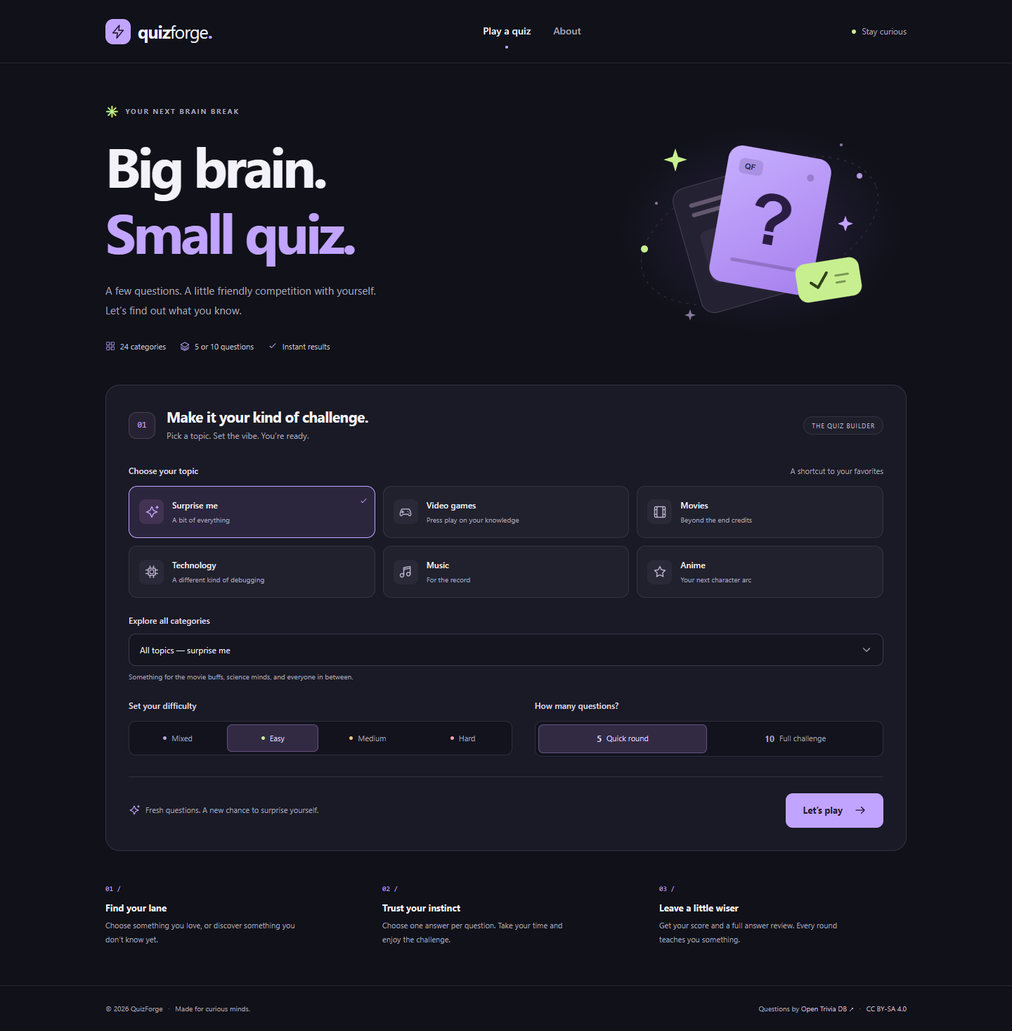
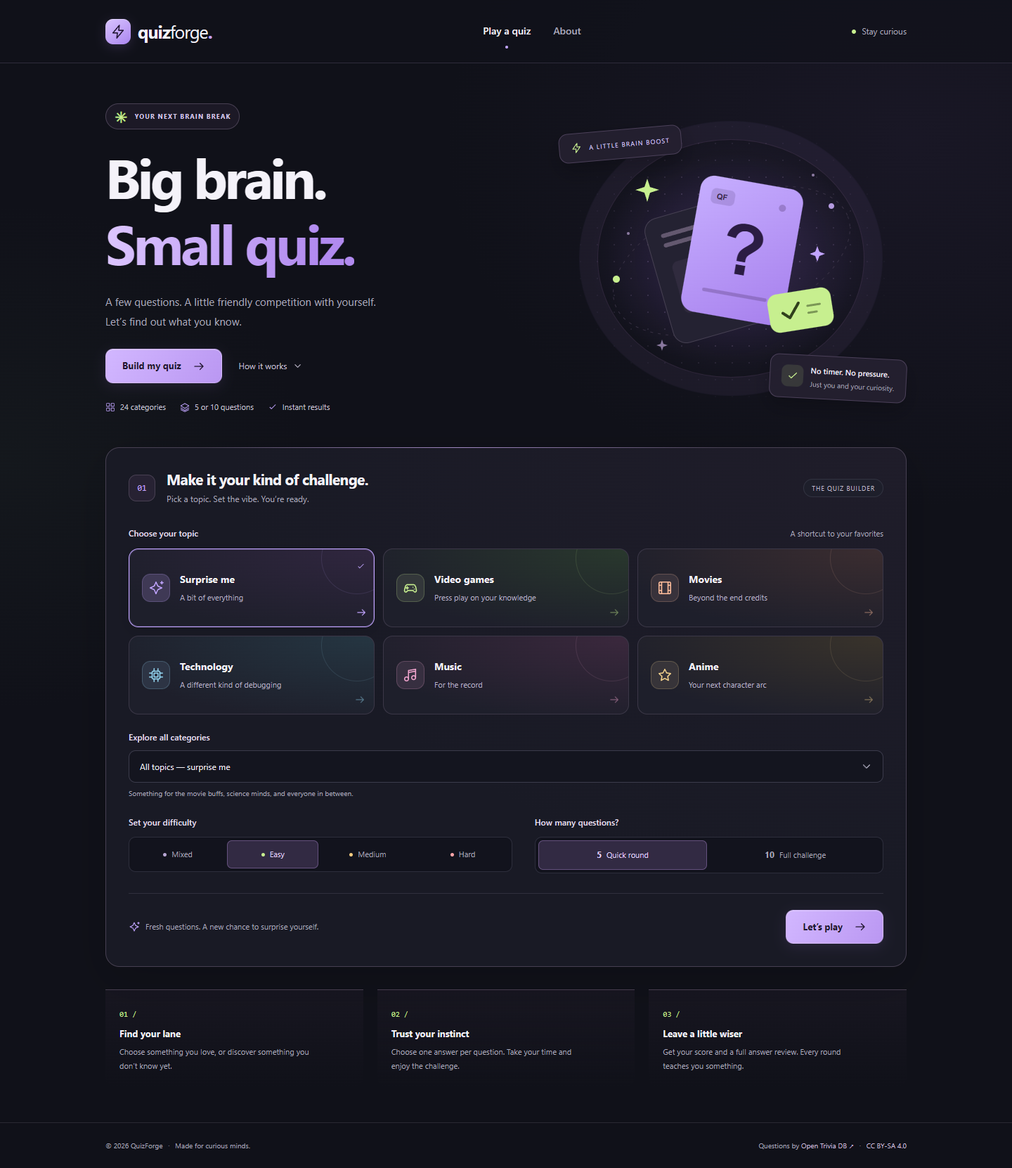
Improve quiz styling and result presentation
Add color-coded topic cards, an animated hero with section links, clearer answer selection, and rank-themed results. Refresh live OpenTDB screenshots and respect reduced-motion preferences.

diff --git a/public/css/styles.css b/public/css/styles.css
@@ -9,12 +9,13 @@
   --muted: #aaa8bb;
   --accent: #c1a4ff;
   --lime: #c7ef8f;
+  --sky: #94d8f4;
   --danger: #ffa5a9;
   --radius: 20px;
 }
 * { box-sizing: border-box; }
 html { scroll-behavior: smooth; }
-body { margin: 0; min-height: 100vh; display: flex; flex-direction: column; background: var(--bg); color: var(--text); font-family: 'Segoe UI', system-ui, sans-serif; font-size: 15px; line-height: 1.6; }
+body { margin: 0; min-height: 100vh; display: flex; flex-direction: column; background: radial-gradient(ellipse 660px 520px at 90% 200px, #27203866, transparent), radial-gradient(ellipse 430px 360px at 0 650px, #25332b33, transparent), var(--bg); color: var(--text); font-family: 'Segoe UI', system-ui, sans-serif; font-size: 15px; line-height: 1.6; }
 main { flex: 1; }
 button, input, select { font: inherit; }
 button, a, input, select { -webkit-tap-highlight-color: transparent; }
@@ -34,18 +35,18 @@ h3 { font-size: 1.05rem; }
 .accent-text { color: var(--accent); }
 .correct-color { color: var(--lime); }
 .wrong-color { color: var(--danger); }
-.panel { background: var(--panel); border: 1px solid var(--line); border-radius: var(--radius); }
+.panel { background: linear-gradient(145deg, #1e1f2c, var(--panel) 65%); border: 1px solid var(--line); border-radius: var(--radius); box-shadow: 0 12px 35px #00000014; }
 .sr-only { position: absolute; width: 1px; height: 1px; margin: -1px; padding: 0; overflow: hidden; clip: rect(0, 0, 0, 0); border: 0; white-space: nowrap; }
 .skip-link { position: fixed; top: -80px; left: 16px; z-index: 50; padding: 12px 20px; background: var(--lime); color: var(--bg); border-radius: 8px; }
 .skip-link:focus { top: 16px; }
 
 /* Navigation */
-.site-header { border-bottom: 1px solid #272832; }
+.site-header { border-bottom: 1px solid #2e2b3b; background: #101119b3; }
 .header-inner { min-height: 89px; display: flex; align-items: center; justify-content: space-between; gap: 28px; }
 .brand { display: inline-flex; align-items: center; gap: 10px; font-size: 25px; font-weight: 750; letter-spacing: -1px; }
 .brand-light { font-weight: 450; }
 .brand-dot { color: var(--accent); }
-.brand-mark { display: grid; place-items: center; background: var(--accent); color: #241835; width: 36px; height: 36px; border-radius: 11px; }
+.brand-mark { display: grid; place-items: center; background: linear-gradient(145deg, #d9c4ff, #ab86ef); color: #241835; width: 36px; height: 36px; border-radius: 11px; box-shadow: 0 4px 16px #b18be52b, inset 0 1px #ffffff66; }
 .brand-mark .icon { width: 22px; height: 22px; }
 .site-header nav { display: flex; align-items: center; gap: 32px; }
 .nav-link { color: var(--muted); padding: 32px 0; font-weight: 500; font-size: 14px; position: relative; }
@@ -55,17 +56,35 @@ h3 { font-size: 1.05rem; }
 .status-dot { width: 6px; height: 6px; border-radius: 50%; background: var(--lime); }
 
 /* Builder and home page */
-.hero { display: grid; grid-template-columns: 1.35fr 1fr; align-items: center; gap: 20px; padding: 57px 0 46px; }
+.hero { display: grid; grid-template-columns: 1.2fr 1fr; align-items: center; gap: 40px; padding: 54px 0 46px; }
 .eyebrow { display: flex; align-items: center; gap: 8px; font-size: 10px; font-weight: 700; letter-spacing: .18em; color: var(--muted); margin-bottom: 20px; }
 .eyebrow .icon { width: 16px; height: 16px; }
 .tiny-spark { color: var(--lime); font-size: 21px; line-height: 1; }
 .hero h1 { margin-bottom: 24px; }
+.hero .eyebrow { display: inline-flex; gap: 9px; padding: 7px 12px; border: 1px solid #484053; border-radius: 100px; background: #28213380; color: #d6c9e9; font-size: 9px; letter-spacing: .13em; }
+.hero h1 .accent-text { background: linear-gradient(100deg, #ddc7ff, #b18aef 85%); background-clip: text; -webkit-background-clip: text; color: transparent; }
 .hero-description { color: var(--muted); font-size: 15px; line-height: 1.85; }
-.hero-facts { display: flex; gap: 20px; margin-top: 28px; flex-wrap: wrap; }
+.hero-actions { display: flex; align-items: center; flex-wrap: wrap; gap: 24px; margin-top: 25px; }
+.hero-secondary { display: inline-flex; align-items: center; gap: 8px; padding-block: 10px; color: #c7c1d4; font-size: 12px; }
+.hero-secondary:hover { color: var(--accent); }
+.hero-secondary .icon { width: 15px; height: 15px; }
+.hero-facts { display: flex; gap: 20px; margin-top: 25px; flex-wrap: wrap; }
 .hero-facts span { display: flex; align-items: center; gap: 7px; color: #c8c5d5; font-size: 11px; }
 .hero-facts .icon { color: var(--accent); width: 14px; height: 14px; }
-.hero-art { width: 100%; max-width: 420px; height: auto; justify-self: end; }
-.builder { padding: 32px; }
+.hero-visual { position: relative; isolation: isolate; display: grid; place-items: center; min-width: 0; aspect-ratio: 1.12; }
+.hero-visual::before { content: ''; position: absolute; inset: 12%; z-index: -1; border: 1px solid #6e547c47; border-radius: 50%; background: radial-gradient(circle, #a676ed1c, transparent 70%); box-shadow: 0 0 0 25px #bd98ef04, 0 0 0 26px #8662a312; }
+.hero-visual::after { content: ''; position: absolute; inset: 0; z-index: -2; background-image: radial-gradient(#b59ccc66 1px, transparent 1px); background-size: 24px 24px; mask-image: radial-gradient(ellipse, #000, transparent 68%); }
+.hero-art { width: 100%; max-width: 420px; height: auto; animation: float-art 7s ease-in-out infinite; }
+.visual-note { position: absolute; z-index: 1; display: flex; align-items: center; gap: 10px; padding: 12px 16px; border: 1px solid #4b4059; border-radius: 13px; background: #24202ff2; box-shadow: 0 12px 28px #00000033; }
+.visual-note-top { top: 9%; left: 1%; transform: rotate(-5deg); font-size: 9px; letter-spacing: .13em; color: #dfcfff; }
+.visual-note-top > .icon { width: 16px; height: 16px; color: var(--lime); }
+.visual-note-bottom { bottom: 5%; right: 0; transform: rotate(3deg); }
+.visual-note-icon { display: grid; place-items: center; width: 31px; height: 31px; border-radius: 9px; background: #c7ef8f1f; color: var(--lime); }
+.visual-note-icon .icon { width: 18px; height: 18px; }
+.visual-note strong { display: block; color: #ede8f5; font-size: 11px; font-weight: 600; }
+.visual-note strong + span { display: block; margin-top: 2px; color: var(--muted); font-size: 10px; }
+.builder { position: relative; padding: 32px; border-color: #474052; background: radial-gradient(ellipse at top right, #3b29402e, transparent 60%), var(--panel); box-shadow: 0 18px 60px #00000026; scroll-margin-top: 24px; }
+.builder::before { content: ''; position: absolute; top: -1px; left: 12%; width: 65%; height: 1px; background: linear-gradient(90deg, transparent, #c8a7f2b3, transparent); }
 .section-heading, .heading-with-number { display: flex; align-items: center; gap: 16px; }
 .section-heading { justify-content: space-between; margin-bottom: 30px; }
 .section-heading h2 { font-size: 21px; }
@@ -76,19 +95,30 @@ h3 { font-size: 1.05rem; }
 .field-heading { display: flex; align-items: baseline; gap: 14px; justify-content: space-between; margin-bottom: 12px; }
 .field-label, .category-field > label, .setting-field legend { font-size: 12px; font-weight: 600; color: #e2dfed; }
 .optional-label { font-size: 11px; color: var(--muted); }
-.topic-grid { display: grid; grid-template-columns: repeat(3, 1fr); gap: 11px; }
-.topic-card { position: relative; min-width: 0; display: flex; align-items: center; gap: 12px; padding: 17px 14px; text-align: left; background: #20212d; border: 1px solid var(--line); color: var(--text); border-radius: 12px; transition: border-color .15s, background .15s, transform .15s; }
-.topic-card:hover { border-color: #777084; transform: translateY(-2px); }
-.topic-card.is-selected { border-color: var(--accent); background: #2c253e; }
-.topic-icon { width: 35px; height: 35px; display: grid; place-items: center; flex-shrink: 0; color: #bdb4cf; background: #2a2938; border-radius: 9px; }
-.topic-icon .icon { width: 20px; height: 20px; }
-.is-selected .topic-icon { background: #433353; color: var(--accent); }
+.topic-grid { display: grid; grid-template-columns: repeat(3, 1fr); gap: 12px; }
+/* Topic colors follow the icon, so filtered/reordered categories keep their identity. */
+.topic-card { --topic-color: var(--accent); --topic-tint: #30263f; position: relative; min-width: 0; min-height: 112px; display: grid; grid-template-columns: 40px 1fr; align-items: center; gap: 14px; padding: 22px 25px 22px 18px; overflow: hidden; text-align: left; background: radial-gradient(ellipse at top right, var(--topic-tint), transparent 80%), #1e1f2b; border: 1px solid #3b3747; color: var(--text); border-radius: 14px; transition: border-color .2s, box-shadow .2s, transform .2s; }
+.topic-card[data-topic='gamepad'] { --topic-color: #c7ef8f; --topic-tint: #29382d; }
+.topic-card[data-topic='film'] { --topic-color: #ffbd9b; --topic-tint: #3b2d30; }
+.topic-card[data-topic='chip'] { --topic-color: var(--sky); --topic-tint: #253642; }
+.topic-card[data-topic='music'] { --topic-color: #f2a4ce; --topic-tint: #3b283d; }
+.topic-card[data-topic='star'] { --topic-color: #f3d28c; --topic-tint: #39332b; }
+.topic-card::before { content: ''; position: absolute; top: -38px; right: -27px; width: 100px; height: 100px; border: 1px solid var(--topic-color); border-radius: 50%; opacity: .12; pointer-events: none; }
+.topic-card:hover { border-color: color-mix(in srgb, var(--topic-color) 60%, var(--line)); transform: translateY(-3px); box-shadow: 0 8px 20px #00000026; }
+.topic-card.is-selected { border-color: var(--topic-color); box-shadow: inset 0 0 0 1px color-mix(in srgb, var(--topic-color) 25%, transparent), 0 5px 22px #0000001f; }
+.topic-icon { width: 40px; height: 40px; display: grid; place-items: center; flex-shrink: 0; color: var(--topic-color); background: color-mix(in srgb, var(--topic-color) 10%, #222230); border: 1px solid color-mix(in srgb, var(--topic-color) 22%, transparent); border-radius: 12px; transition: transform .2s; }
+.topic-icon .icon { width: 22px; height: 22px; }
+.topic-card:hover .topic-icon { transform: rotate(-6deg); }
+.is-selected .topic-icon { background: color-mix(in srgb, var(--topic-color) 18%, #222230); }
 .topic-copy { min-width: 0; }
-.topic-copy strong { display: block; font-size: 12px; font-weight: 600; }
-.topic-copy > span { display: block; color: var(--muted); font-size: 10px; margin-top: 3px; }
-.topic-check { position: absolute; right: 9px; top: 6px; color: var(--accent); opacity: 0; }
+.topic-copy strong { display: block; font-size: 14px; font-weight: 650; }
+.topic-copy > span { display: block; color: #b7b0c5; font-size: 11px; margin-top: 5px; }
+.topic-check { position: absolute; right: 12px; top: 10px; color: var(--topic-color); opacity: 0; }
 .topic-check .icon { width: 13px; height: 13px; }
 .is-selected .topic-check { opacity: 1; }
+.topic-arrow { position: absolute; right: 12px; bottom: 10px; color: var(--topic-color); opacity: .45; transition: opacity .2s, transform .2s; }
+.topic-arrow .icon { width: 16px; height: 16px; }
+.topic-card:hover .topic-arrow, .topic-card.is-selected .topic-arrow { opacity: 1; transform: translateX(2px); }
 .category-field { margin-top: 23px; }
 .category-field > label { display: block; margin-bottom: 9px; }
 .select-wrap { position: relative; }
@@ -113,15 +143,17 @@ select[aria-invalid='true'] { border-color: var(--danger); }
 .builder-action { display: flex; align-items: center; justify-content: space-between; gap: 20px; border-top: 1px solid #30303d; margin-top: 28px; padding-top: 23px; }
 .builder-action p { display: flex; align-items: center; gap: 8px; color: var(--muted); font-size: 11px; }
 .builder-action p .icon { width: 16px; height: 16px; color: var(--accent); }
-.button { display: inline-flex; align-items: center; justify-content: center; gap: 16px; min-height: 48px; padding: 13px 23px; border: 1px solid transparent; border-radius: 10px; font-size: 13px; font-weight: 650; transition: background .15s, transform .15s; white-space: nowrap; }
-.button .icon { width: 18px; height: 18px; }
-.button-primary { color: #20152e; background: var(--accent); }
-.button-primary:hover { background: #d2bdff; transform: translateY(-1px); }
+.button { display: inline-flex; align-items: center; justify-content: center; gap: 16px; min-height: 48px; padding: 13px 23px; border: 1px solid transparent; border-radius: 11px; font-size: 13px; font-weight: 650; transition: background .2s, box-shadow .2s, transform .2s; white-space: nowrap; }
+.button .icon { width: 18px; height: 18px; transition: transform .2s; }
+.button-primary { color: #20152e; border-color: #e3ccff66; background: linear-gradient(120deg, #d2b7ff, #ba97f2); box-shadow: inset 0 1px #ffffff40, 0 5px 18px #a878e01f; }
+.button-primary:hover { background: linear-gradient(120deg, #dfcaff, #c7a8f8); box-shadow: 0 7px 24px #b386ed33; transform: translateY(-2px); }
+.button-primary:hover .icon { transform: translateX(3px); }
 .button-primary:disabled { opacity: .6; cursor: wait; transform: none; }
 .button-secondary { color: var(--text); border-color: #4b445b; background: #262231; }
 .button-secondary:hover { border-color: var(--accent); background: #332b43; }
-.how-section { display: grid; grid-template-columns: repeat(3, 1fr); gap: 42px; padding: 39px 0 55px; }
-.how-number { font-family: ui-monospace, monospace; font-size: 10px; color: var(--accent); }
+.how-section { display: grid; grid-template-columns: repeat(3, 1fr); gap: 20px; padding: 32px 0 50px; scroll-margin-top: 24px; }
+.how-section > div { border-top: 1px solid #494052; padding: 20px; border-radius: 0 0 14px 14px; background: linear-gradient(#26202f55, transparent); }
+.how-number { font-family: ui-monospace, monospace; font-size: 11px; color: var(--lime); }
 .how-section h3 { margin: 10px 0 8px; font-size: 13px; }
 .how-section p { color: var(--muted); font-size: 11px; max-width: 280px; line-height: 1.8; }
 
@@ -136,26 +168,27 @@ select[aria-invalid='true'] { border-color: var(--danger); }
 .quiz-progress { padding: 19px 23px; margin-bottom: 22px; }
 .quiz-progress > div { display: flex; justify-content: space-between; gap: 16px; font-size: 11px; margin-bottom: 12px; }
 .quiz-progress > div > span { color: var(--muted); }
-progress { display: block; width: 100%; height: 5px; border: 0; border-radius: 20px; overflow: hidden; background: #30303f; accent-color: var(--accent); }
+progress { display: block; width: 100%; height: 7px; border: 0; border-radius: 20px; overflow: hidden; background: #30303f; accent-color: var(--accent); }
 progress::-webkit-progress-bar { background: #30303f; border-radius: 20px; }
-progress::-webkit-progress-value { background: var(--accent); border-radius: 20px; transition: width .2s; }
-progress::-moz-progress-bar { background: var(--accent); border-radius: 20px; }
+progress::-webkit-progress-value { background: linear-gradient(90deg, #a884df, #d4b8ff); border-radius: 20px; transition: width .2s; }
+progress::-moz-progress-bar { background: linear-gradient(90deg, #a884df, #d4b8ff); border-radius: 20px; }
 .question-card { margin: 0 0 18px; padding: 27px; min-width: 0; }
+.question-card:has(.choice input:checked) { border-color: #5e4b74; }
 .question-meta { display: flex; align-items: center; justify-content: space-between; gap: 12px; margin-bottom: 17px; }
-.question-number { font-size: 10px; font-weight: 650; letter-spacing: .13em; color: var(--accent); white-space: nowrap; }
+.question-number { padding: 5px 9px; border: 1px solid #51415f; border-radius: 7px; background: #b88ce90d; font-size: 10px; font-weight: 650; letter-spacing: .13em; color: var(--accent); white-space: nowrap; }
 .small-label { font-size: 10px; color: var(--muted); text-transform: capitalize; text-align: right; }
 .question-card h2, .question-card h3 { font-size: 19px; line-height: 1.55; font-weight: 600; letter-spacing: -.015em; margin-bottom: 21px; overflow-wrap: anywhere; }
 .answer-grid { display: grid; grid-template-columns: 1fr 1fr; gap: 10px; }
 .choice { cursor: pointer; min-width: 0; }
-.answer-box { display: flex; align-items: center; gap: 12px; height: 100%; padding: 14px; min-height: 60px; border: 1px solid #373747; background: #20212d; border-radius: 10px; font-size: 13px; transition: background .15s, border-color .15s; }
-.choice:hover .answer-box { border-color: #746982; }
+.answer-box { display: flex; align-items: center; gap: 12px; height: 100%; padding: 16px; min-height: 64px; border: 1px solid #3c394c; background: linear-gradient(125deg, #252433, #1e1f2b); border-radius: 12px; font-size: 13px; transition: background .2s, border-color .2s, box-shadow .2s; }
+.choice:hover .answer-box { border-color: #8c759f; box-shadow: 0 3px 12px #0000001a; }
 .answer-letter { display: grid; place-items: center; width: 25px; height: 25px; flex-shrink: 0; border-radius: 7px; background: #30303e; color: var(--muted); font-size: 11px; }
 .answer-text { flex: 1; overflow-wrap: anywhere; }
-.answer-check { opacity: 0; color: var(--accent); }
-.answer-check .icon { width: 17px; height: 17px; }
-.choice input:checked + .answer-box { border-color: var(--accent); background: #30263f; }
+.answer-check { display: grid; place-items: center; width: 23px; height: 23px; flex-shrink: 0; border-radius: 50%; background: var(--accent); color: #251832; opacity: 0; transform: scale(.7); transition: opacity .2s, transform .2s; }
+.answer-check .icon { width: 15px; height: 15px; }
+.choice input:checked + .answer-box { border-color: var(--accent); background: linear-gradient(120deg, #3a2c4d, #292335); box-shadow: inset 3px 0 var(--accent), 0 3px 15px #0000001a; }
 .choice input:checked + .answer-box .answer-letter { background: var(--accent); color: #251832; }
-.choice input:checked + .answer-box .answer-check { opacity: 1; }
+.choice input:checked + .answer-box .answer-check { opacity: 1; transform: scale(1); }
 .quiz-submit { display: flex; align-items: center; justify-content: space-between; gap: 20px; margin: 25px 0 54px; padding: 27px; }
 .quiz-submit h2 { font-size: 19px; }
 .quiz-submit p { color: var(--muted); font-size: 12px; margin-top: 6px; }
@@ -168,18 +201,26 @@ progress::-moz-progress-bar { background: var(--accent); border-radius: 20px; }
 /* Results and review */
 .result-intro { padding-top: 51px; }
 .result-intro .eyebrow { color: var(--lime); }
-.score-panel { display: flex; align-items: center; gap: 37px; padding: 35px; background: radial-gradient(ellipse at top left, #31273d, var(--panel) 70%); }
-.score-ring { width: 170px; height: 170px; flex-shrink: 0; padding: 8px; border-radius: 50%; background: conic-gradient(var(--accent) calc(var(--score) * 1%), #3a3448 0); }
-.score-ring > div { display: flex; align-items: center; justify-content: center; flex-direction: column; width: 100%; height: 100%; background: #211c2c; border-radius: 50%; }
+.score-panel { --result-accent: var(--accent); position: relative; overflow: hidden; display: flex; align-items: center; gap: 40px; padding: 40px; border-color: color-mix(in srgb, var(--result-accent) 35%, var(--line)); background: radial-gradient(ellipse at top right, color-mix(in srgb, var(--result-accent) 15%, transparent), transparent 70%), #1c1b29; }
+.score-panel[data-rank='legend'] { --result-accent: var(--lime); }
+.score-panel[data-rank='curious'] { --result-accent: var(--sky); }
+.score-panel::after { content: ''; position: absolute; width: 230px; height: 230px; top: -105px; right: -75px; border: 1px solid color-mix(in srgb, var(--result-accent) 20%, transparent); border-radius: 50%; box-shadow: 0 0 0 28px color-mix(in srgb, var(--result-accent) 3%, transparent); pointer-events: none; }
+.score-ring { position: relative; z-index: 1; width: 180px; height: 180px; flex-shrink: 0; padding: 9px; border-radius: 50%; background: conic-gradient(var(--result-accent) calc(var(--score) * 1%), #3a3448 0); box-shadow: 0 0 0 8px #ffffff04, 0 0 0 9px #ffffff0a, 0 12px 40px #00000026; }
+.score-ring > div { display: flex; align-items: center; justify-content: center; flex-direction: column; width: 100%; height: 100%; background: radial-gradient(circle at 50% 20%, #2b2738, #1c1b28); border: 1px solid #ffffff0a; border-radius: 50%; }
 .score-ring strong { font-size: 55px; letter-spacing: -.06em; line-height: 1.2; }
 .score-ring strong span { font-size: 25px; font-weight: 450; color: var(--muted); }
 .score-ring > div > span { letter-spacing: .13em; font-size: 9px; color: var(--muted); margin-top: 9px; }
-.rank-label { display: inline-flex; align-items: center; gap: 7px; font-size: 11px; color: var(--lime); margin-bottom: 14px; }
+.rank-label { display: inline-flex; align-items: center; gap: 7px; padding: 6px 11px; border: 1px solid color-mix(in srgb, var(--result-accent) 30%, transparent); border-radius: 100px; background: color-mix(in srgb, var(--result-accent) 8%, transparent); font-size: 11px; color: var(--result-accent); margin-bottom: 14px; }
 .rank-label .icon { width: 17px; height: 17px; }
+.score-copy { position: relative; z-index: 1; min-width: 0; }
+.score-overline { margin-bottom: 14px; color: var(--muted); font-size: 9px; letter-spacing: .17em; font-weight: 600; }
 .score-copy h2 { font-size: 27px; }
 .score-copy p { color: var(--muted); font-size: 13px; margin-top: 11px; }
 .stats-grid { display: grid; grid-template-columns: repeat(3, 1fr); gap: 12px; margin: 16px 0 42px; }
-.stat-card { display: flex; align-items: center; gap: 14px; border: 1px solid var(--line); border-radius: 12px; background: #191a24; padding: 19px; }
+.stat-card { display: flex; align-items: center; gap: 14px; border: 1px solid var(--line); border-radius: 13px; background: linear-gradient(135deg, #23222f, #191a24); padding: 21px; }
+.stat-card:nth-child(1) { border-top-color: #71845d; }
+.stat-card:nth-child(2) { border-top-color: #8e6169; }
+.stat-card:nth-child(3) { border-top-color: #8c71ad; }
 .stat-icon { display: grid; place-items: center; width: 35px; height: 35px; border-radius: 10px; background: #292834; flex-shrink: 0; }
 .stat-icon .icon { width: 20px; height: 20px; }
 .stat-card strong { display: block; font-size: 24px; font-weight: 650; line-height: 1.25; }
@@ -187,7 +228,9 @@ progress::-moz-progress-bar { background: var(--accent); border-radius: 20px; }
 .review-heading { display: flex; justify-content: space-between; align-items: center; gap: 20px; margin-bottom: 23px; }
 .review-heading .eyebrow { margin-bottom: 10px; }
 .review-heading .button { font-size: 11px; }
-.answer-status { display: inline-flex; align-items: center; gap: 5px; font-size: 10px; }
+.review-card.review-correct { border-left: 3px solid #8eaf6c; }
+.review-card.review-wrong { border-left: 3px solid #bb7d89; }
+.answer-status { display: inline-flex; align-items: center; gap: 5px; padding: 4px 8px; border-radius: 6px; background: color-mix(in srgb, currentColor 8%, transparent); font-size: 10px; }
 .answer-status .icon { width: 14px; height: 14px; }
 .review-answers { list-style: none; padding: 0; margin: 0; display: grid; gap: 7px; }
 .result-answer { display: flex; justify-content: space-between; align-items: center; gap: 16px; padding: 11px 14px; border: 1px solid #31313f; border-radius: 8px; background: #1f202b; color: #c2bece; font-size: 12px; }
@@ -196,7 +239,7 @@ progress::-moz-progress-bar { background: var(--accent); border-radius: 20px; }
 .result-answer.is-wrong { border-color: #71424c; color: #ffc0c4; background: #362630; }
 .answer-tag { display: inline-flex; gap: 5px; align-items: center; font-size: 10px; flex-shrink: 0; }
 .answer-tag .icon { width: 14px; height: 14px; }
-.bottom-cta { display: flex; flex-direction: column; align-items: center; gap: 22px; text-align: center; padding: 35px 0 60px; }
+.bottom-cta { display: flex; flex-direction: column; align-items: center; gap: 22px; text-align: center; margin: 28px 0 54px; padding: 32px 22px; border: 1px solid #494052; border-radius: var(--radius); background: radial-gradient(ellipse at top, #3b29415c, transparent 80%); }
 .bottom-cta h2 { font-size: 21px; }
 
 /* About, errors, and footer */
@@ -225,11 +268,15 @@ progress::-moz-progress-bar { background: var(--accent); border-radius: 20px; }
 
 /* All forms remain usable at small widths and with a keyboard. */
 @media (max-width: 900px) {
-  .hero { grid-template-columns: 1.4fr 1fr; }
+  .hero { grid-template-columns: 1.3fr 1fr; gap: 15px; }
+  .hero-actions { gap: 16px; }
+  .visual-note { padding: 10px; }
+  .visual-note-top { font-size: 8px; left: -5%; }
+  .visual-note-bottom { right: -2%; bottom: 0; }
   .hero-facts { gap: 12px; }
   .desktop-break { display: none; }
-  .topic-copy > span { font-size: 9px; }
-  .topic-card { padding: 15px 10px; gap: 9px; }
+  .topic-copy > span { font-size: 10px; }
+  .topic-card { padding: 18px 22px 18px 12px; gap: 10px; }
   .settings-grid { gap: 20px; }
 }
 @media (max-width: 700px) {
@@ -242,8 +289,12 @@ progress::-moz-progress-bar { background: var(--accent); border-radius: 20px; }
   .nav-link { padding-block: 25px; font-size: 12px; }
   .nav-link.active::after { bottom: 13px; }
   .hero { padding: 38px 0 30px; grid-template-columns: 1fr; gap: 0; }
-  .hero h1 { font-size: 59px; }
-  .hero-art { display: none; }
+  .hero h1 { font-size: clamp(2.75rem, 13.5vw, 3.7rem); }
+  .hero-visual { display: none; }
+  .hero .eyebrow { font-size: 8px; }
+  .hero-actions { gap: 20px; margin-top: 23px; }
+  .hero-actions .button { padding-inline: 18px; }
+  .hero-secondary { font-size: 11px; }
   .hero-description { font-size: 13px; }
   .hero-facts { margin-top: 22px; gap: 15px; }
   .hero-facts span { font-size: 10px; }
@@ -254,17 +305,20 @@ progress::-moz-progress-bar { background: var(--accent); border-radius: 20px; }
   .heading-with-number { gap: 11px; }
   .step-label { width: 32px; height: 32px; }
   .topic-grid { grid-template-columns: 1fr 1fr; }
-  .topic-card { padding: 15px 10px; min-height: 85px; }
-  .topic-copy strong { font-size: 11px; }
-  .topic-copy > span { font-size: 9px; line-height: 1.5; }
-  .topic-icon { width: 29px; height: 29px; }
-  .topic-icon .icon { width: 17px; height: 17px; }
+  .topic-card { grid-template-columns: 1fr; align-content: start; gap: 13px; padding: 16px 12px; min-height: 149px; }
+  .topic-copy { padding-right: 8px; }
+  .topic-copy strong { font-size: 12px; }
+  .topic-copy > span { font-size: 10px; line-height: 1.5; }
+  .topic-icon { width: 34px; height: 34px; border-radius: 10px; }
+  .topic-icon .icon { width: 19px; height: 19px; }
+  .topic-arrow { top: 25px; right: 14px; bottom: auto; }
   .settings-grid { grid-template-columns: 1fr; }
   .segmented label > span { padding-block: 12px; }
   .builder-action { flex-direction: column; align-items: stretch; }
   .builder-action p { justify-content: center; font-size: 10px; }
   .button { white-space: normal; text-align: center; }
   .how-section { gap: 20px; padding-block: 30px 40px; }
+  .how-section > div { padding: 17px 10px; }
   .how-section h3 { font-size: 12px; }
   .how-section p { font-size: 10px; }
   .page-intro { padding-top: 30px; }
@@ -289,12 +343,17 @@ progress::-moz-progress-bar { background: var(--accent); border-radius: 20px; }
 }
 @media (max-width: 380px) {
   .brand { font-size: 19px; gap: 7px; }
-  .hero h1 { font-size: 51px; }
-  .topic-card { flex-direction: column; align-items: flex-start; gap: 9px; }
+  .hero h1 { font-size: clamp(2.6rem, 13.5vw, 3.2rem); }
+  .hero-actions { gap: 12px; }
+  .topic-card { gap: 11px; }
   .how-section { grid-template-columns: 1fr; gap: 22px; }
   .how-section p { max-width: none; }
 }
+@keyframes float-art {
+  0%, 100% { transform: translateY(0); }
+  50% { transform: translateY(-9px); }
+}
 @media (prefers-reduced-motion: reduce) {
   html { scroll-behavior: auto; }
-  *, *::before, *::after { transition: none !important; }
+  *, *::before, *::after { transition: none !important; animation: none !important; }
 }

diff --git a/README.md b/README.md
@@ -13,6 +13,7 @@
 - Server sessions keep the answer key out of the quiz HTML.
 - Score, percentage, achievement label, and a question-by-question review.
 - Responsive dark interface, labeled form controls, keyboard focus states, and a progress indicator.
+- Color-coded topic cards, a softly animated hero with quick navigation, and rank-themed result panels; animations respect reduced-motion preferences.
 - Server-side validation, friendly 404/API error pages, and centralized error handling.
 - HTTP request logging, an eight-second API timeout, category caching, and API rate-limit handling.
 
